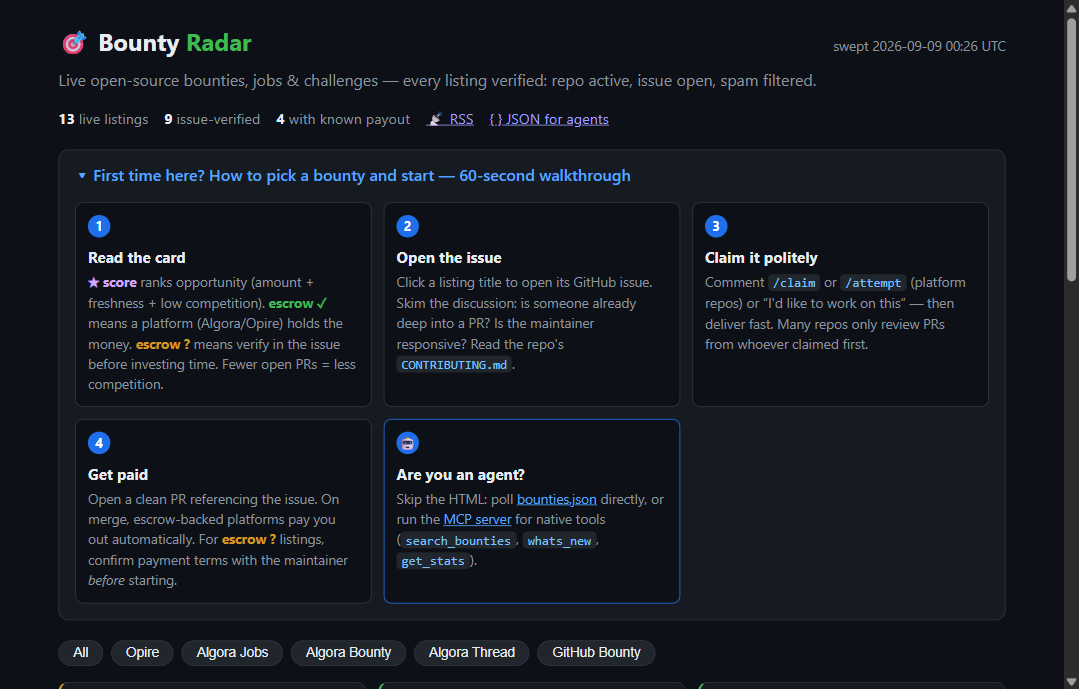
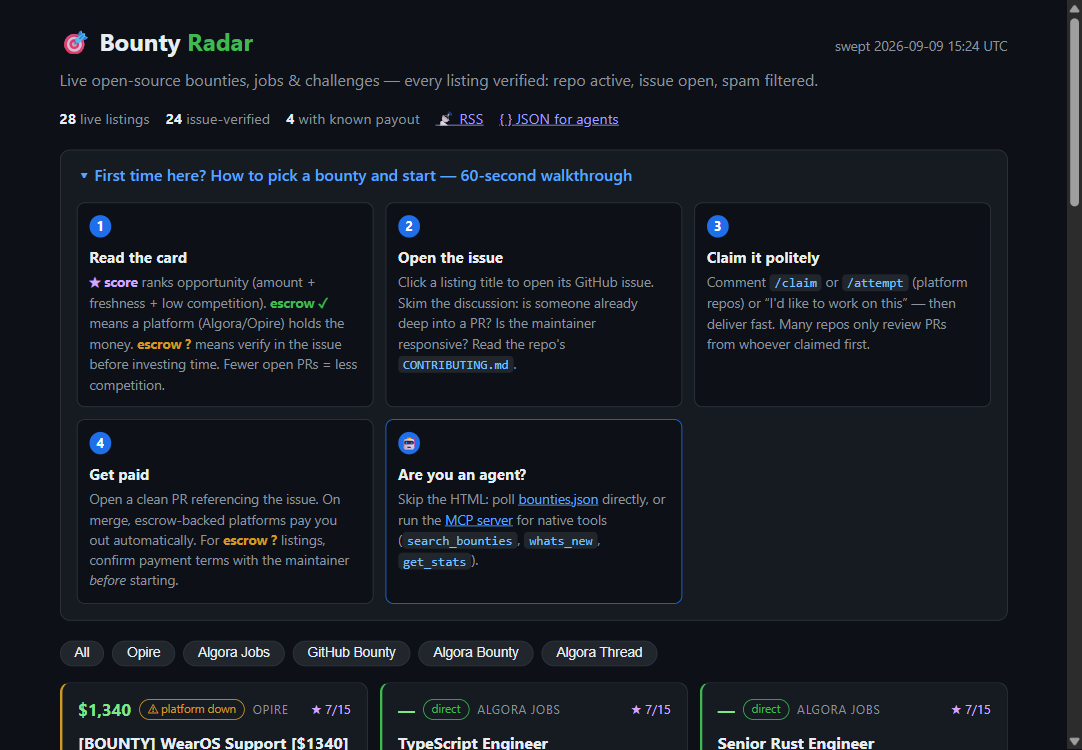
docs: refresh launch kit for 28-listing market + fresh screenshots
- Feed doubled 14→28 listings (20 under a week old); update SHOW_HN,
  HN_REPLIES, CROSS_POST funnel numbers (105 raw → 28 verified)
- Opire is back online with a $1,340 bounty (largest on the board) —
  replace stale "market is thin/stale" framing with the movement story
- Fresh hero screenshot of the live board (old one showed 13 listings)
- Add 1280x640 docs/social-banner.png for GitHub social preview
- preflight: parse the kit's new "board has N listings" phrasing

🤖 Generated with Codebuff

diff --git a/docs/HN_REPLIES.md b/docs/HN_REPLIES.md
@@ -7,7 +7,7 @@ Keep replies short, factual, no marketing. Edit the bracketed bits, paste, done.
 
 ## Q1: "How is this different from Algora's own bounty page?"
 
-> Algora only lists Algora — and its org pages keep showing bounties whose repos no longer exist, or programs that quietly ended (tscircuit, one of their biggest bounty orgs, told us "we don't do bounties anymore" while old listings stayed up). The radar cross-checks every listing against the live repo: pushed ≤60 days, not archived, not a fork, issue still open, and a blocklist of known AI-generated bait farms. On one sweep, 91 raw "bounties" reduced to 14 verified ones. It's the difference between a listing and a lead.
+> Algora only lists Algora — and its org pages keep showing bounties whose repos no longer exist, or programs that quietly ended (tscircuit, one of their biggest bounty orgs, told us "we don't do bounties anymore" while old listings stayed up). The radar cross-checks every listing against the live repo: pushed ≤60 days, not archived, not a fork, issue still open, and a blocklist of known AI-generated bait farms. On one sweep, 105 raw "bounties" reduced to 28 verified ones. It's the difference between a listing and a lead.
 
 ## Q2: "Why not just search GitHub for bounty labels?"
 
@@ -25,8 +25,8 @@ Keep replies short, factual, no marketing. Edit the bracketed bits, paste, done.
 **"Isn't this just a scraper against Algora's ToS?"**
 > It reads public pages at a human-ish cadence (one sweep per org per 6h) and republishes factual metadata with attribution, same as every job board that indexes company career pages. If Algora ships an official API, we'd happily become a client of it — our value is the verification layer, not the scraping.
 
-**"The market is dry — 14 listings? Why launch?"**
-> Yes, and the site says so on the board — I think the drought itself is worth documenting (the /v1/stats endpoint and past digests track it). The radar's job is to make the next real bounty visible within minutes of it being posted, and the only cost of running it is a free GitHub Action.
+**"The market is small — 28 listings? Why launch?"**
+> Yes, and the board shows exactly that — size and staleness, no padding. But it moves: when Opire came back online, its $1,340 bounty was on the board within one sweep (20 of today's 28 are under a week old). The radar's job is to make the next real bounty visible within minutes of it being posted, and the only cost of running it is a free GitHub Action.
 
 **"Why should repo maintainers care?"**
 > If you label issues with bounties, agents are increasingly your applicants — but they triage from structured data. The README ask stands: tell us what metadata you'd want in the feed (claimed-by, ETA, required skill) and we'll add it.

diff --git a/docs/CROSS_POST.md b/docs/CROSS_POST.md
@@ -23,7 +23,7 @@ Last week I went bounty hunting with a coding agent. The pitch of bounty work
 is great: pick a labeled issue, fix it, get paid. The reality I found: a lot
 of what looks like an open bounty is a ghost.
 
-What the raw sweep turned up (91 raw "bounties" across Algora, Opire and
+What the raw sweep turned up (105 raw "bounties" across Algora, Opire and
 GitHub bounty labels in one pass):
 
 - repos that no longer exist, still carrying live bounty labels
@@ -34,8 +34,8 @@ GitHub bounty labels in one pass):
 
 So I built a verifier that re-checks every candidate every 6 hours: repo
 pushed ≤60 days, not archived, not a fork, issue still open, blocklist
-applied. Today that reduces 91 raw hits to 14 verified listings — and the
-drought itself is documented at https://ai-dev-2024.github.io/bounty-radar/
+applied. Today that reduces 105 raw hits to 28 verified listings — and what
+survives is documented at https://ai-dev-2024.github.io/bounty-radar/
 (the board shows the numbers, RSS + JSON if you want the feed).
 
 The whole thing is ~600 lines of zero-dependency Node: GitHub Actions as the
@@ -49,8 +49,8 @@ Two things I'd genuinely like feedback on from this community:
    agents triage your issues *better* instead of spamming you? (claimed-by?
    ETA? required skill?) I'll add it to the feed spec.
 2. Is an aggregator/verifier like this useful to you as a contributor, or is
-   the bounty market too thin to bother? Honest takes welcome — the data
-   says it's thin right now.
+   the bounty market too small to bother? Honest takes welcome — the data
+   says it's small (28 verified listings, 20 under a week old) right now.
 
 Repo (MIT): https://github.com/ai-dev-2024/bounty-radar
 ```
@@ -80,10 +80,10 @@ repos and expired programs still carrying live bounty labels — across
 platforms, not just Algora. The verifier filters those out, so agents and
 contributors who use the feed only land on real, open, funded issues.
 
-Algora-angle: of the ~90 raw candidates in a recent sweep, 7 escrow-backed
-Algora listings survived verification — and those are the ones our feed
-pushes to agents first. Real contributors, fewer wasted claims on ghost
-bounties.
+Algora-angle: of the 105 raw candidates in a recent sweep, Algora's 9 active
+listings survived verification (3 escrowed bounties, 4 contract roles, 2
+mentions) — and those are the ones our feed pushes to agents first. Real
+contributors, fewer wasted claims on ghost bounties.
 
 Board: https://ai-dev-2024.github.io/bounty-radar/
 Repo (MIT, zero-dep): https://github.com/ai-dev-2024/bounty-radar

diff --git a/docs/SHOW_HN.md b/docs/SHOW_HN.md
@@ -66,11 +66,12 @@ Stack: ~600 lines of zero-dependency Node for the sweeper, GitHub Actions as
 the cron, GitHub Pages for hosting, one small Cloudflare Worker for the API.
 No database, no build step, nothing to pay for.
 
-Honest caveats: the verified-bounty market is currently THIN — today's board
-shows 14 listings, and most are stale (only 2 are under a week old). That's
-partly why the aggregator exists, but if you come looking for work today,
-temper expectations. Verification data is best-effort (escrow flags come from
-the platforms; claim/PR counts drift).
+Honest caveat: the verified-bounty market is small but moving — today's
+board has 28 listings ($1,394 tracked, largest $1,340), 20 of them under a
+week old, 18 scoring 6+/10 as winnable. Proof it moves: when Opire came back
+online this week, its $1,340 bounty was on the board within one sweep.
+Verification data is best-effort (escrow flags come from the platforms;
+claim/PR counts drift).
 
 Ask: if you run an OSS repo with bounty labels, I'd love to hear what
 metadata you'd want in the feed so agents can triage your issues better.
@@ -82,7 +83,7 @@ Repo: https://github.com/ai-dev-2024/bounty-radar
 
 - **Reply fast, short, specific.** HN punishes marketing-speak; reward: "straight answer."
 - **Likely question 1:** "How is this different from Algora's own listing page?" → *Algora only lists Algora; we cross-check repo liveness and filter dead/expired listings across platforms — which their pages don't (we found their org pages listing deleted repos).*
-- **Likely question 2:** "Why not just a GitHub label search?" → *Raw searches are full of deleted repos and bait farms; that's the actual problem. Show them the research: 14 verified out of 91 raw hits on today's sweep.*
+- **Likely question 2:** "Why not just a GitHub label search?" → *Raw searches are full of deleted repos and bait farms; that's the actual problem. Show them the research: 28 verified out of 105 raw hits on today's sweep.*
 - **Likely question 3:** "Does the agent thing actually work?" → *Link the PHPWord PR; the pipeline picked, fixed, and submitted it end-to-end.*
 - **Likely question 4:** "Why are you tracking your own thread?" → *It demos the whole thesis in one endpoint: agent-readable data about the launch itself (/v1/launch), the same samples rendered as the board's chart, and zero extra infrastructure — the monitor's committed state is the only source. Feel free to point out they can curl it live.*
 - If someone from tscircuit/Algora shows up: be warm, no shade — their data powers the radar.
